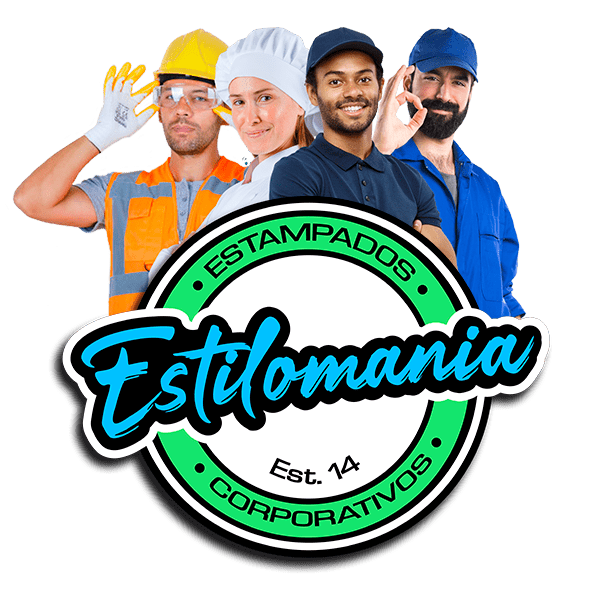
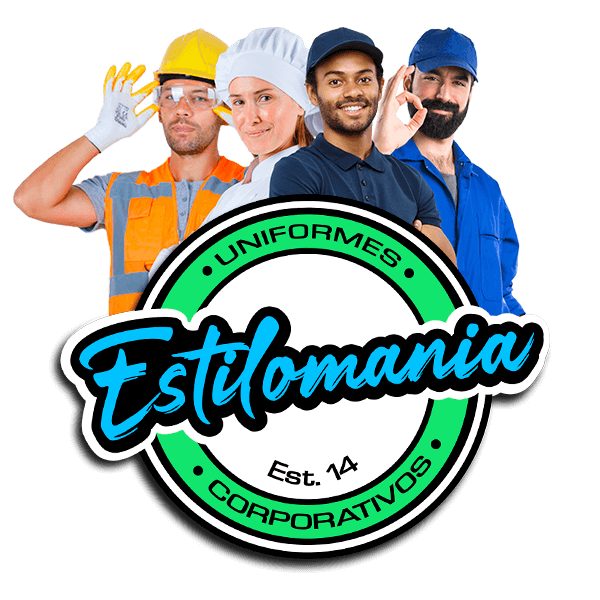
test

Changed region(s): [[0.09, 0.3, 0.93, 0.93], [0.42, 0.69, 0.45, 0.72]]

diff --git a/index.html b/index.html
@@ -4,7 +4,7 @@
 <head>
   <meta charset="UTF-8">
   <meta name="viewport" content="width=device-width, initial-scale=1.0">
-  <meta mame="title" content="Estampados Corporativos Estilomania - Villa Alemana">
+  <meta mame="title" content="Uniformes Corporativos Estilomania - Villa Alemana">
   <meta name="description" content="Indumentarias para empresas, ropa de cocina, uniformes, poleras estampadas y una amplia gama de productos corporativos pensados en tu empresa!">
 
   <link rel="canonical" href="https://www.estilomania.cl" />
@@ -12,7 +12,7 @@
 <!-- Open Graph / Facebook -->
 <meta property="og:type" content="website">
 <meta property="og:url" content="https://www.estilomania.cl/">
-<meta property="og:title" content="Estampados Corporativos Estilomania - Villa Alemana">
+<meta property="og:title" content="Uniformes Corporativos Estilomania - Villa Alemana">
 <meta property="og:description" content="Indumentarias para empresas, ropa de cocina, uniformes, poleras estampadas y una amplia gama de productos corporativos pensados en tu empresa!">
 <meta property="og:image" content="https://www.estilomania.cl/src/metaimg.jpg">
 
@@ -24,7 +24,7 @@
 <meta property="twitter:image" content="https://www.estilomania.cl/src/metaimg.jpg">
 
 
-  <title>Estampados Corporativos Estilomania - Villa Alemana</title>
+  <title>Uniformes Corporativos Estilomania - Villa Alemana</title>
 
   <!-- IMPORTS -->
   <link rel="stylesheet" href="https://cdn.jsdelivr.net/npm/bootstrap@4.5.3/dist/css/bootstrap.min.css"
@@ -54,30 +54,43 @@
 <link rel="preconnect" href="https://fonts.gstatic.com" crossorigin>
 <link href="https://fonts.googleapis.com/css2?family=Poppins:ital,wght@0,400;0,500;0,600;0,700;1,500;1,600&display=swap" rel="stylesheet">
 
+
+<!-- Global site tag (gtag.js) - Google Analytics -->
+<script async src="https://www.googletagmanager.com/gtag/js?id=G-78VMTVQKV9"></script>
+<script>
+  window.dataLayer = window.dataLayer || [];
+  function gtag(){dataLayer.push(arguments);}
+  gtag('js', new Date());
+
+  gtag('config', 'G-78VMTVQKV9');
+</script>
+
+
+
+
 </head>
 
 <body>
 
-  <!-- Modal -->
-<div class="modal fade bd-example-modal-lg" id="myModal" tabindex="-1" role="dialog" aria-labelledby="myLargeModalLabel" aria-hidden="true">
+<!-- Modal -->
+<!-- <div class="modal fade bd-example-modal-lg" id="myModal" tabindex="-1" role="dialog" aria-labelledby="myLargeModalLabel" aria-hidden="true">
   <div class="modal-dialog modal-dialog-centered modal-lg" role="document">
     <div class="modal-content">
       <div class="modal-header">
-        <h5 class="modal-title" id="exampleModalLongTitle">Nueva Linea Sanitaria</h5>
+        <h5 class="modal-title" id="exampleModalLongTitle">Revisa nuestro Catálogo Gastronómico</h5>
         <button type="button" class="btn-secondary btn" data-dismiss="modal" aria-label="Close" id="xClose">
           <span aria-hidden="true"><i class="fas fa-times"></i></span>
         </button>
       </div>
       <div class="modal-body">
-        <img src="src/square.jpg" alt="" width="100%">
+        <img src="src/Linea-Gastronomica.png" alt="Flyer linea gastronomica" width="100%">
       </div>
       <div class="modal-footer">
-        <!-- <button type="button" class="btn btn-secondary" data-dismiss="modal" id="btnClose">Cerrar</button> -->
-        <a class="btn btn-primary" target="_blank" href="https://drive.google.com/drive/folders/1-tcLHTW3-7TeQmpra3TWiMHMKup3q38_">Ver Certificaciones</a>
+        <a class="btn btn-primary" target="_blank" href="https://catalogo.estilomania.cl">Ver Catálogo</a>
       </div>
     </div>
   </div>
-</div>
+</div> -->
 
 
   <!-- HEADER -->
@@ -139,12 +152,14 @@
 
     <div class="hero">
         <div class="hero-text">
-            <h1>Ropa Corporativa y Estampados</h1>
+            <h1>Uniformes Corporativos</h1>
 
             <h5>Sabías que un equipo bien uniformado da mayor credibilidad?</h5>
             <h3>Tenemos todo lo que necesitas para lucir como un profesional</h3>
 
             <a href="http://wa.me/56941671098" target="_blank" class="btn btn-lg btn-primary h-btn">Contáctanos</a>
+            <a href="https://drive.google.com/drive/folders/1ebIEAPJns85DuVXTfUMOys7Ty1LmlSMP?usp=sharing" target="_blank" class="btn btn-lg btn-primary h-btn second-btn">Ver Catálogo</a>
+
         </div>
         <div class="hero-img">
             <img src="src/hero.png" alt="Estilomania">
@@ -225,7 +240,7 @@
           <li data-target="#myCarousel" data-slide-to="1"></li>
           <li data-target="#myCarousel" data-slide-to="2"></li>
           <li data-target="#myCarousel" data-slide-to="3"></li>
-          <li data-target="#myCarousel" data-slide-to="4"></li>
+          <!-- <li data-target="#myCarousel" data-slide-to="4"></li> -->
         </ol>
 
         <div class="carousel-inner">
@@ -248,6 +263,7 @@
                   <h4>Micropolar</h4>
                   <h4>Gorras</h4>
                   <h4>Cortavientos</h4>
+                  <h4>Parkas</h4>
 
                   <a href="http://wa.me/56941671098" target="_blank" class="btn btn-lg btn-primary carousel-btn h-btn">
                     Contáctanos
@@ -285,7 +301,7 @@
                   <h4>Pantalon cargo</h4>
                   <h4>Overoles</h4>
                   <h4>Legionario</h4>
-                  <h4>Parkas</h4>
+                  <h4>Visioner</h4>
                   <a href="http://wa.me/56941671098" target="_blank" class="btn btn-lg btn-primary carousel-btn h-btn">
                     Contáctanos
                   </a>
@@ -375,7 +391,7 @@
 
                     <!-- item 5 -->
 
-                    <div class="carousel-item" data-interval="10000">
+                    <!-- <div class="carousel-item" data-interval="10000">
 
                       <div class="overlay-image" style="background-image: url(src/slider/bg5.jpg);">
                       </div>
@@ -395,6 +411,10 @@
                             <a href="http://wa.me/56941671098" target="_blank" class="btn btn-lg btn-primary carousel-btn h-btn">
                               Contáctanos
                             </a>
+                            <br>
+                            <a href="https://drive.google.com/drive/folders/1-tcLHTW3-7TeQmpra3TWiMHMKup3q38_" target="_blank" class="btn btn-lg btn-primary carousel-btn h-btn second-btn">
+                              Certificaciones
+                            </a>
           
                           </div>
           
@@ -408,7 +428,7 @@
           
                     </div>
 
-        </div>
+        </div> -->
 
         <a href="#myCarousel" class="carousel-control-prev" role="button" data-slide="prev">
           <span class="sr-only">Previous</span>
@@ -527,6 +547,8 @@
     </div>
   </footer>
 
+
+  <!-- MODAL -->
   <script>
     $(window).on("load", function(){
         setTimeout(function(){

diff --git a/styles.css b/styles.css
@@ -25,7 +25,7 @@ ul,li{
 /* HEADER START */
 
 header{
-  min-height: 100vh;
+  /* min-height: 100vh; */
   background-image: url(./src/herobg.jpg);
   background-position: center;
   background-size: cover;
@@ -142,6 +142,8 @@ background-color: #25D366;
 border-color: #25D366;
 color: white;
 }
+
+
 
 @media (max-width: 500px){
   .hero-text{
@@ -681,3 +683,16 @@ ul.contact-list {
 .modal-body{
   padding: 0;
 }
+
+.second-btn{
+  margin-top: 1rem;
+  border-width: 2px;
+  color:#fff;
+  border-color: #fff;
+  background-color: rgba(255, 255, 255, 0);
+}
+
+/* @media (max-width:450px) {
+  .second-btn{
+  }
+} */
